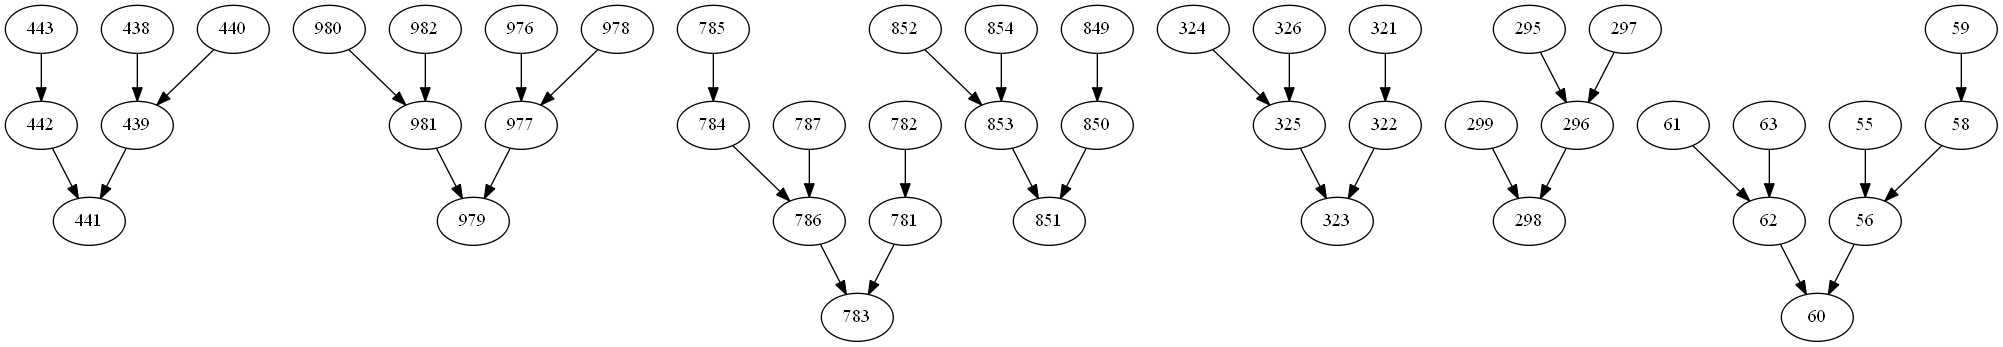
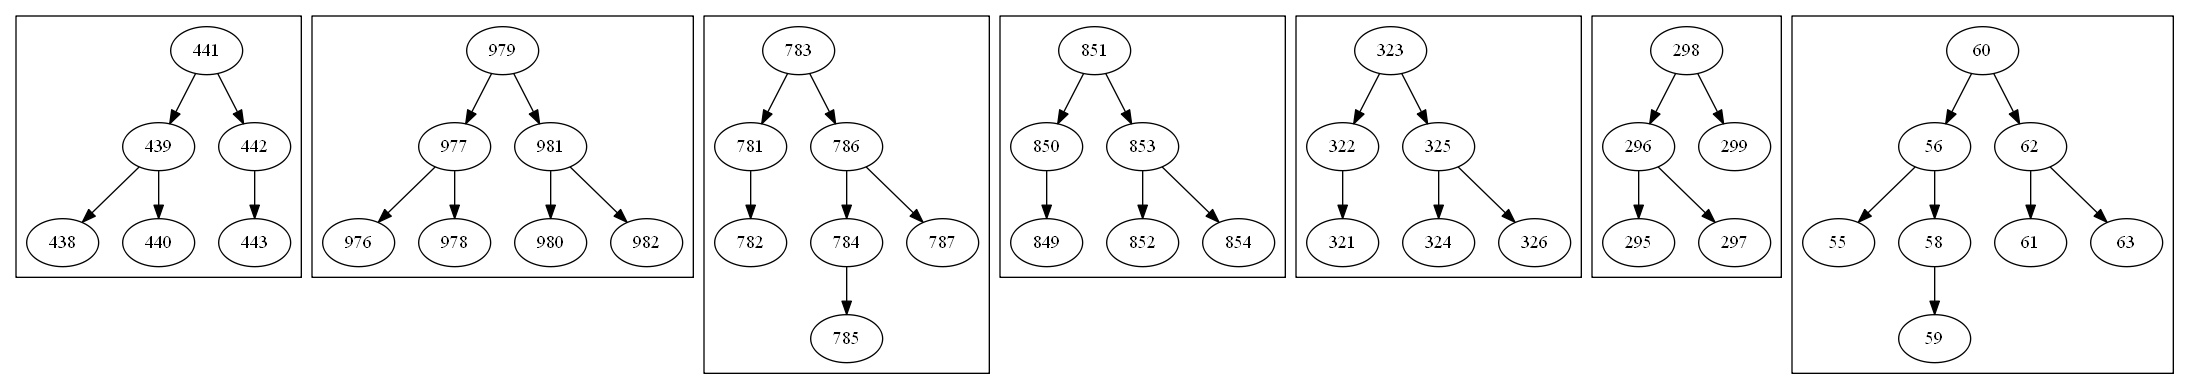
Tercer Commit Fase2
Se agrega el carrito de compras al Backend

diff --git a/api/main.go b/api/main.go
@@ -31,7 +31,7 @@ var Tienda_Elim *Tiendas.Eliminar_Esp
 var Inventario Tiendas.InvInit
 
 //variable para cargar pedidos
-var Pedidos Tiendas.PedInit
+var Pedidos *Tiendas.PedInit
 //variables para los productos de prueba
 var producto1 *Tiendas.Producto
 var producto2 *Tiendas.Producto
@@ -39,30 +39,16 @@ var producto3 *Tiendas.Producto
 var ListaS *Estructura.ListaSimple
 var tienda *Tiendas.Tienda 
 
+var Prod *Tiendas.Carrito
 var ProdAvl []*Estructura.Arbol
 var tind map[string]interface{}
+
 func main(){
 	fmt.Println("Proyecto de Estructura de Datos, Fase 1")
 	//Crear el enrutador
 	
-	/*ListaS = Estructura.Nueva_ListaS()
+	ListaS = Estructura.Nueva_ListaS()
 	
-	//Productos de prueba
-	producto1 = Tiendas.NuevoProducto("zapato", 123, "los mejores zapatos", 500, 5,"www.zapatos.com")
-	producto2 = Tiendas.NuevoProducto("Carro",456, "los mejores carros", 10000, 8,"www.carros.com")
-	producto3 = Tiendas.NuevoProducto("Camisas", 789,"Las mejores camisas",58,14,"www.camisas.com")
-	
-	ListaS.Insertar(producto1)
-	ListaS.Insertar(producto2)
-	ListaS.Insertar(producto3)
-	
-	ListaS.Imprimir()
-	ListaS.Buscar_Simple(123)
-	ListaS.Eliminar_Simple(456)
-	ListaS.Eliminar_Simple(789)
-	ListaS.Eliminar_Simple(123)
-	ListaS.Imprimir()
-	*/
 	router := mux.NewRouter().StrictSlash(true)
 	router.HandleFunc("/", indexRoute)
 	router.HandleFunc("/api/cargartienda", CargarTiendas).Methods("POST")
@@ -73,14 +59,57 @@ func main(){
 	router.HandleFunc("/Guardar", Guardar).Methods("GET")
 	router.HandleFunc("/Eliminar", Elim_Tienda).Methods("DELETE")
 	router.HandleFunc("/CargarInventario",CargarInventario).Methods("POST")
-	//router.HandleFunc("/api/verInventario", verInventario).Methods("GET")
+	router.HandleFunc("/api/verInventario/{id}", verInventario).Methods("GET")
 	router.HandleFunc("/api/verArbol",verArbol).Methods("GET")
 	router.HandleFunc("/CargarPedido",CargarPedido).Methods("POST")
 	router.HandleFunc("/cargar", Prueba).Methods("POST")
 	router.HandleFunc("/api/ver",verCargar).Methods("GET")
+	router.HandleFunc("/InsertarCarrito",InsertarCarrito).Methods("PUT")
+	
 	log.Fatal(http.ListenAndServe(":3000", router))
 	
 }
+//Definir un metodo para insertar en el carrito
+func InsertarCarrito(w http.ResponseWriter, r *http.Request){
+	reqBody,err := ioutil.ReadAll(r.Body)
+	if err != nil {
+		fmt.Fprintf(w, "No ha ingresado la informacion correctamente")
+	}
+	json.Unmarshal(reqBody, &Prod)
+	var ind int = 0
+	tiendanom := Prod.Tienda
+	for a, indice := range index{
+		b := []byte(tiendanom)
+		indi := string(b[0])
+		if indice == indi{
+			ind = a
+			
+		}
+	}
+	dep := Prod.Dep
+	cal := Prod.Calificacion-1
+	pos := ((dep*(tamind)+ind)*(5))+cal
+	cod := Prod.Codigo
+	nom := Prod.Nombre
+	cant := Prod.Cantidad
+	productoFinal :=vector[pos].BuscarProd(tiendanom, cod, nom, cant)
+	if productoFinal !=nil{
+		ListaS.Insertar(productoFinal)
+		ListaS.Imprimir()
+	}else{
+		fmt.Println("NO HAY PRODUCTO DISPONIBLE")
+	}
+	
+
+	_= json.NewDecoder(r.Body).Decode(&Prod)	
+	w.Header().Set("Content-Type", "application/json")
+	w.WriteHeader(http.StatusCreated)
+	json.NewEncoder(w).Encode(&Prod)
+}
+
+
+
+
 
 //Definir un metodo post para cargar los pedidos
 func CargarPedido(w http.ResponseWriter, r *http.Request){
@@ -97,18 +126,34 @@ func CargarPedido(w http.ResponseWriter, r *http.Request){
 }
 //Definir una funcion para graficar los arboles
 func verArbol(w http.ResponseWriter, r *http.Request){
-	//Estructura.GraficarAvl(ProdAvl)
-	
 	Estructura.GraficarAvl(ProdAvl)
-	
 	fmt.Fprintf(w,"SE HA CREADO EL GRAFICO DE LOS ARBOLES AVL")
 }
 
 //Definir un metodo post para cargar los inventarios
-/*
+
 func verInventario(w http.ResponseWriter, r *http.Request){
+	vars := mux.Vars(r)
 	
-}*/
+	TiendaId, err := strconv.Atoi(vars["id"])
+	if err != nil{
+		fmt.Fprintf(w, "EL ID DE LA TIENDA ES INVALIDO")
+		return
+	}
+	fmt.Println("LA POSICION INGRESADA ES: ", TiendaId)
+	for i:=0; i<len(vector); i++{
+		busc := vector[i].BuscarId(TiendaId)
+		if busc != nil{
+			fmt.Println("PRODUCTOS: ", busc.NodoTienda.Productos)
+				
+			w.Header().Set("Content-Type", "application/json")
+			w.WriteHeader(http.StatusCreated)
+			json.NewEncoder(w).Encode(busc.NodoTienda)
+					
+		}
+	}
+
+}
 
 
 
@@ -188,10 +233,30 @@ func getArreglo(w http.ResponseWriter, r *http.Request){
 	fmt.Fprintf(w, "Se ha generado exitosamente el grafico")
 }
 //Definir una funcion para decodificar el vector en formato json
+
 func Guardar(w http.ResponseWriter, r *http.Request){
-	for _, list := range vector{
-		list.Decodificar(w,r)
+	depli = nil
+	tind = nil
+	for _, li:= range vector{
+		salida := li.Decodificar(w,r)
+		if salida !=""{
+			depli = append(depli, salida )	
+		}	
 	}
+	
+	stjs := strings.Join(depli,",")
+	stjs = "{\n\"tiendas\":[\n"+stjs+"]\n}"
+	sal := []byte(stjs)
+	err2 := json.Unmarshal(sal, &tind)
+	if err2 != nil {
+		log.Print(err2)
+	}
+	fmt.Println("BANDERA")
+	fmt.Println()
+	fmt.Printf("%-v\n", tind)
+	w.Header().Set("Content-Type", "application/json")
+	w.WriteHeader(http.StatusCreated)
+	json.NewEncoder(w).Encode(&tind)
 }
 //Definir una funcion para Mostrar todas las tiendas en una posicion del vector cargada desde el servidor
 func Buscar_Posicion(w http.ResponseWriter, r *http.Request){
@@ -362,6 +427,7 @@ func CargarTiendas(w http.ResponseWriter, r *http.Request) {
 				nombre := tienda.Nombre
 				data.Data[i].Departamentos[j].Tiendas[z].Id= data.Data[i].Departamentos[j].Tiendas[z].GenerarId(nombre)
 				tienda.Id= data.Data[i].Departamentos[j].Tiendas[z].GenerarId(nombre)
+				tienda.Dep=j
 				//desc := tienda.Descripcion
 				//contact := tienda.Contacto
 				cali := tienda.Calificacion

diff --git a/api/Estructura/ListaDoble.go b/api/Estructura/ListaDoble.go
@@ -127,6 +127,30 @@ func (l *Lista)Imprimir(){
 	fmt.Println("EL TAMAÑO DE LA LISTA ES: ", l.tam)
 }
 
+//funcion para buscar productos que devuelve la posicion del producto en su arreglo
+func (l * Lista)BuscarProd(Nombre string, Cod int, Nom string, Cant int)*Tiendas.Producto{
+	aux := l.inicio
+	for aux != nil{
+		if aux.NodoTienda.Nombre == Nombre{
+			p := aux.NodoTienda.Productos
+			for j:=0; j<len(p);j++{
+				if ((p[j].Codigo == Cod)&&(p[j].Nombre == Nom)){
+					if ((Cant <= p[j].Cantidad)&&(p[j].Cantidad>0)){
+						p[j].Cantidad = p[j].Cantidad - Cant
+						return &p[j]
+					}
+				}
+				
+			}
+		}
+		aux = aux.siguiente
+		
+		
+	}
+	return nil
+}
+
+
 //Definir una funcion para buscar un nodo dentro de la lista
 func (l *Lista)Buscar(Nombre string) *Nodo{
 	//definir un nodo auxiliar para recorrer la lista
@@ -134,6 +158,27 @@ func (l *Lista)Buscar(Nombre string) *Nodo{
 	for aux != nil{
 		//Verificar si el nodo en su propiedad de Id es igual al Id ingresado
 		if aux.NodoTienda.Nombre == Nombre{
+			//Si es igual devolver el nodo encontrado
+			fmt.Println("Se encontro el nodo")
+			return aux
+		}
+		//Si no lo encuentra en la lista, pasar al siguiente nodo
+		aux = aux.siguiente
+	}
+	//Si al terminar de leer la lista no lo encontro, se envia un msj y retorna el nodo aux apuntando a null
+	fmt.Println("No se encontro el nodo")
+	return aux
+}
+
+
+
+//Definir una funcion para buscar un nodo dentro de la lista por ID
+func (l *Lista)BuscarId(Id int) *Nodo{
+	//definir un nodo auxiliar para recorrer la lista
+	aux := l.inicio
+	for aux != nil{
+		//Verificar si el nodo en su propiedad de Id es igual al Id ingresado
+		if aux.NodoTienda.Id == Id{
 			//Si es igual devolver el nodo encontrado
 			fmt.Println("Se encontro el nodo")
 			return aux

diff --git a/api/Estructura/ArbolAVL.go b/api/Estructura/ArbolAVL.go
@@ -152,12 +152,12 @@ func (ar *Arbol) RecorridoInorden(){
 
 func gio(r *NodoAVL, arch *os.File){
 	if r.izq != nil{
-		fmt.Fprintf(arch,"\t\t"+strconv.Itoa(r.izq.valor.Codigo)+"->"+strconv.Itoa(r.valor.Codigo)+"\n")
+		fmt.Fprintf(arch,"\t\t"+strconv.Itoa(r.valor.Codigo)+"->"+strconv.Itoa(r.izq.valor.Codigo)+"\n")
 		gio(r.izq,arch)
 	}
 	
 	if r.der != nil{
-		fmt.Fprintf(arch,"\t\t"+strconv.Itoa(r.der.valor.Codigo)+"->"+strconv.Itoa(r.valor.Codigo)+"\n")
+		fmt.Fprintf(arch,"\t\t"+strconv.Itoa(r.valor.Codigo)+"->"+strconv.Itoa(r.der.valor.Codigo)+"\n")
 		gio(r.der,arch)
 	}
 }
@@ -176,7 +176,7 @@ func GraficarAvl(pro[] *Arbol){
 	fmt.Fprintf(graphdot, "ranckdir = UD;\n")
 	fmt.Fprintf(graphdot, "\n")
 	for j:=0; j<len(pro); j++{
-		fmt.Fprintf(graphdot, "\t"+"subgraph avl_"+strconv.Itoa(j)+"{\n")
+		fmt.Fprintf(graphdot, "\t"+"subgraph cluster_"+strconv.Itoa(j)+"{\n")
 		pro[j].GraficarIo(graphdot)
 		fmt.Fprintf(graphdot,"\n}\n")
 		

diff --git a/api/Tiendas/Producto_Mod.go b/api/Tiendas/Producto_Mod.go
@@ -51,3 +51,13 @@ type Codigos struct{
 func NuevoProducto(nomb string,cod int, desc string, precio int, cant int, img string ) *Producto{
 	return &Producto{nomb, cod, desc, precio, cant, img}
 }
+
+//Definir una estructura para el carrito de compras
+type Carrito struct{
+	Tienda string `json: "Tienda"`
+	Dep int `json: "Dep"`
+	Calificacion int `json: "Calificacion"`
+	Nombre string `json: "Nombre"`
+	Codigo int `json: "Codigo"`
+	Cantidad int `json: "Cantidad"`
+}

diff --git a/api/Tiendas/Tienda.go b/api/Tiendas/Tienda.go
@@ -5,6 +5,7 @@ package Tiendas
 type Tienda struct{
 	//Definir un atributo ID para obtener el codigo ascii del nombre y poder hacer el ordenamiento
 	Id int `json:"Id"`
+	Dep int `json:"Dep"`
 	Nombre string `json:"Nombre"`
 	Descripcion string `json:"Descripcion"`
 	Contacto string `json:"Contacto"`
